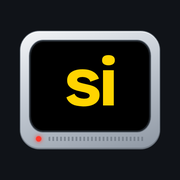
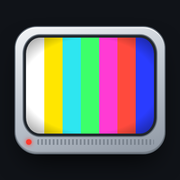
si/pozeral: nová ikona appky (telka s farebnými pruhmi), názov malým
Claude-Session: https://claude.ai/code/session_01E5N1aPPJYssYbJ4uWsJT2D

diff --git a/pozeral/index.html b/pozeral/index.html
@@ -3,13 +3,13 @@
 <head>
 <meta charset="utf-8">
 <meta name="viewport" content="width=device-width, initial-scale=1, viewport-fit=cover">
-<title>Si pozeral</title>
+<title>si/pozeral</title>
 <meta name="description" content="Rozprávky z Fox Kids, Jetixu, Minimaxu a večerníčky v českom a slovenskom dabingu. Tri kanály, bežia stále, ako v telke.">
 <meta name="theme-color" content="#101318">
 <link rel="canonical" href="https://durica.si/pozeral/">
 <meta property="og:type" content="website">
 <meta property="og:site_name" content="durica.si">
-<meta property="og:title" content="Si pozeral">
+<meta property="og:title" content="si/pozeral">
 <meta property="og:description" content="Toto si pozeral, keď si bol malý. Rozprávky v CZ a SK dabingu na troch kanáloch, ako v telke.">
 <meta property="og:url" content="https://durica.si/pozeral/">
 <meta property="og:image" content="https://durica.si/pozeral/og.png">
@@ -23,7 +23,7 @@
 <meta name="apple-mobile-web-app-capable" content="yes">
 <meta name="mobile-web-app-capable" content="yes">
 <meta name="apple-mobile-web-app-status-bar-style" content="black-translucent">
-<meta name="apple-mobile-web-app-title" content="Si pozeral">
+<meta name="apple-mobile-web-app-title" content="si/pozeral">
 <link rel="preconnect" href="https://fonts.googleapis.com">
 <link rel="preconnect" href="https://fonts.gstatic.com" crossorigin>
 <link href="https://fonts.googleapis.com/css2?family=Bricolage+Grotesque:opsz,wght@12..96,500;12..96,800&family=Atkinson+Hyperlegible:wght@400;700&family=VT323&display=swap" rel="stylesheet">
